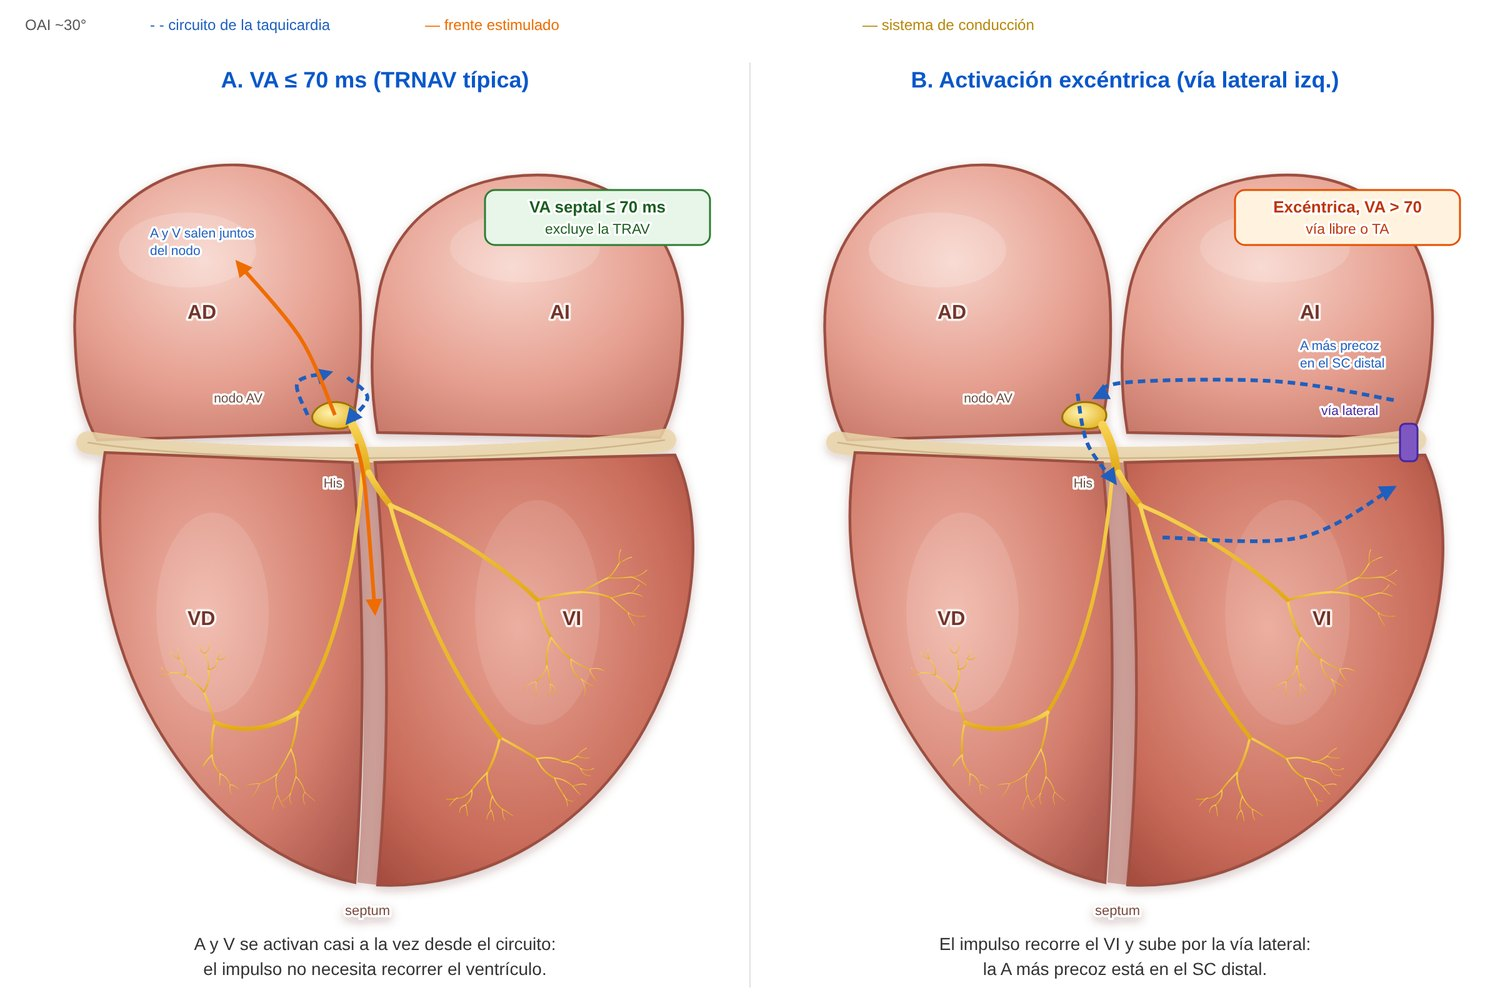
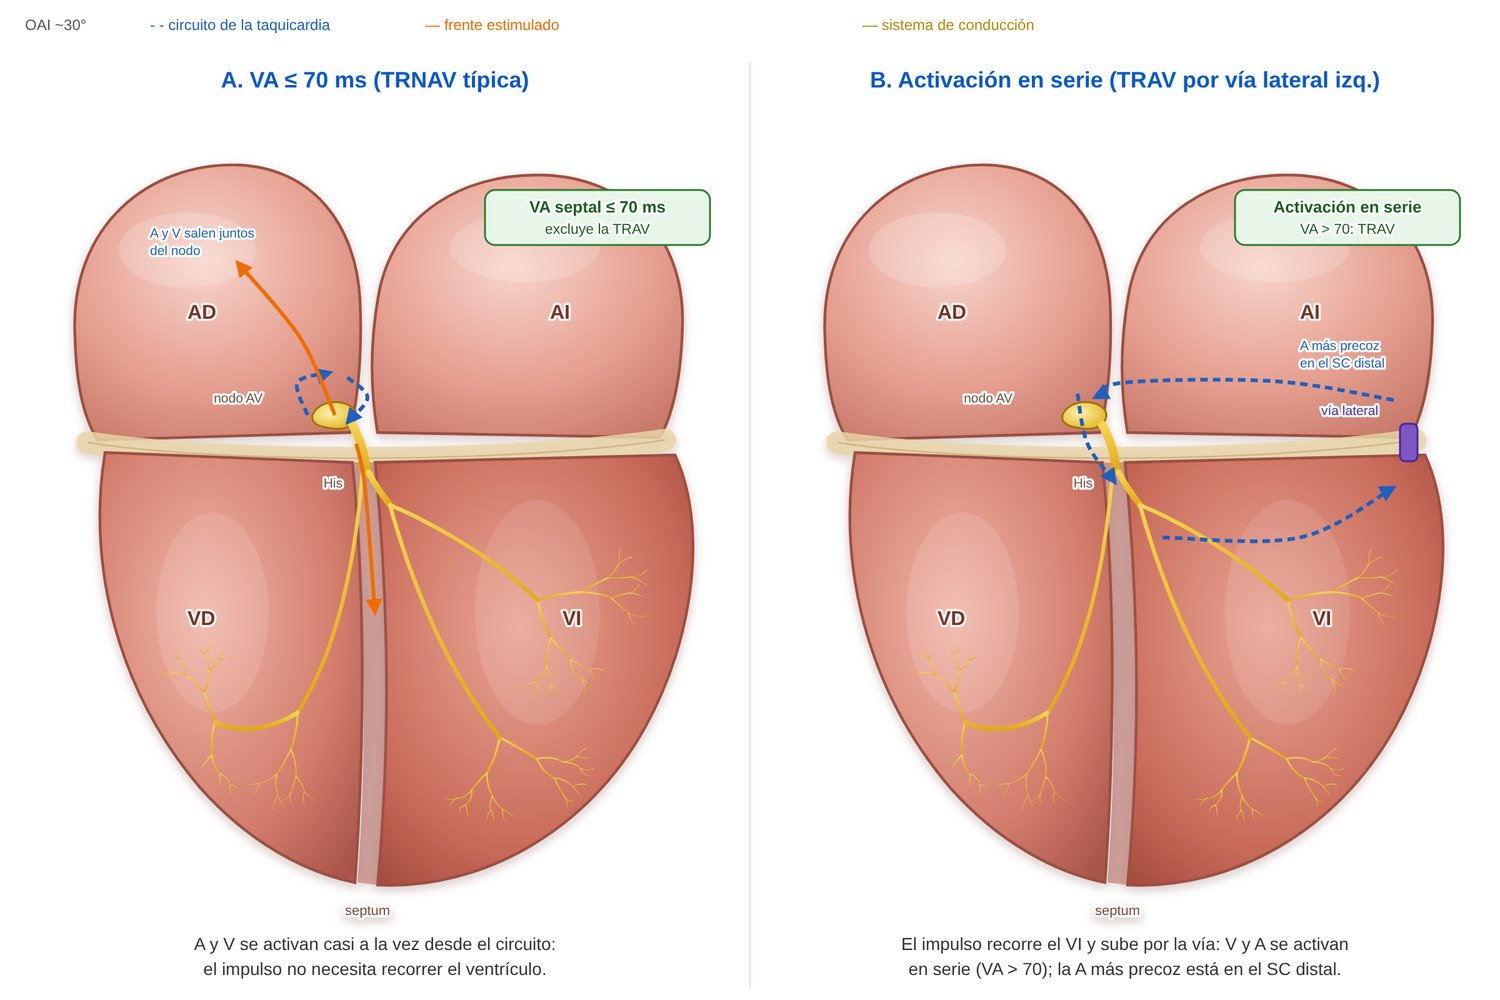
Esquema de observaciones: panel B como activación en serie (TRAV), sin TA
Claude-Session: https://claude.ai/code/session_01Pw5rjt62KK5LeJZoEyFiaM

Changed region(s): [[0.6133, 0.93, 0.8893, 0.992], [0.7973, 0.186, 0.9813, 0.248], [0.5827, 0.062, 0.92, 0.093]]

diff --git a/sw.js b/sw.js
@@ -1,6 +1,6 @@
 // Permite instalar la app y abrirla sin conexión. Primero la red (siempre lo último publicado); si no hay, la copia.
 // Si cambiás un archivo, subí CACHE_VERSION.
-const CACHE_VERSION = 'mef-v98';
+const CACHE_VERSION = 'mef-v99';
 const ARCHIVOS = ['./', './index.html', './manifest.json', './iconos/icon-192.png', './iconos/icon-512.png'];
 self.addEventListener('install', e => e.waitUntil(caches.open(CACHE_VERSION).then(c => c.addAll(ARCHIVOS)).then(() => self.skipWaiting())));
 self.addEventListener('activate', e => e.waitUntil(caches.keys().then(ks => Promise.all(ks.filter(k => k !== CACHE_VERSION).map(k => caches.delete(k)))).then(() => self.clients.claim())));

diff --git a/herramientas/esquemas/esquemas.py b/herramientas/esquemas/esquemas.py
@@ -130,9 +130,9 @@ F['basal'] = (
     ('A. VA ≤ 70 ms (TRNAV típica)', TRNAV + front((268, 262), (240, 200), (190, 140), w=3) + front((285, 285), (292, 320), (300, 420), w=3)
      + note(120, 120, 'A y V salen juntos|del nodo', BLUE) + box('VA septal ≤ 70 ms', 'excluye la TRAV'),
      'A y V se activan casi a la vez desde el circuito:|el impulso no necesita recorrer el ventrículo.'),
-    ('B. Activación excéntrica (vía lateral izq.)', TRAV_L + via(LAT, 'vía lateral', lx=-70, ly=-22)
-     + note(440, 210, 'A más precoz|en el SC distal', BLUE) + box('Excéntrica, VA > 70', 'vía libre o TA', 'warn'),
-     'El impulso recorre el VI y sube por la vía lateral:|la A más precoz está en el SC distal.'), LEG)
+    ('B. Activación en serie (TRAV por vía lateral izq.)', TRAV_L + via(LAT, 'vía lateral', lx=-70, ly=-22)
+     + note(440, 210, 'A más precoz|en el SC distal', BLUE) + box('Activación en serie', 'VA > 70: TRAV'),
+     'El impulso recorre el VI y sube por la vía: V y A se activan|en serie (VA > 70); la A más precoz está en el SC distal.'), LEG)
 
 F['pre'] = (
     ('A. Salto del AH (doble vía nodal)', spark((200, 236), 'S2 auricular', -150, 4)

diff --git a/PENDIENTES.md b/PENDIENTES.md
@@ -86,7 +86,7 @@ Las agregué yo; verificá los datos con tus copias o reemplazalas por artículo
 
 Cada link abre el esquema (corazón en OAI ~30°, dos paneles). En la app está en cada ficha de la pestaña Maniobras, debajo de "Cómo se hace".
 
-- [ ] [ver](https://drsebastianmaldonado.github.io/Maniobras-EEF/figs/esq/basal.jpg) **Observaciones en la taquicardia**: VA ≤ 70 (TRNAV típica) / activación excéntrica.
+- [ ] [ver](https://drsebastianmaldonado.github.io/Maniobras-EEF/figs/esq/basal.jpg) **Observaciones en la taquicardia**: VA ≤ 70 (TRNAV típica) / activación en serie (TRAV).
 - [ ] [ver](https://drsebastianmaldonado.github.io/Maniobras-EEF/figs/esq/pre.jpg) **Estudio basal**: salto del AH / conducción VA por la vía.
 - [ ] [ver](https://drsebastianmaldonado.github.io/Maniobras-EEF/figs/esq/ado.jpg) **Adenosina**: termina / la TA sigue con bloqueo AV.
 - [ ] [ver](https://drsebastianmaldonado.github.io/Maniobras-EEF/figs/esq/vop.jpg) **Sobreestimulación ventricular**: A-V / A-A-V.
